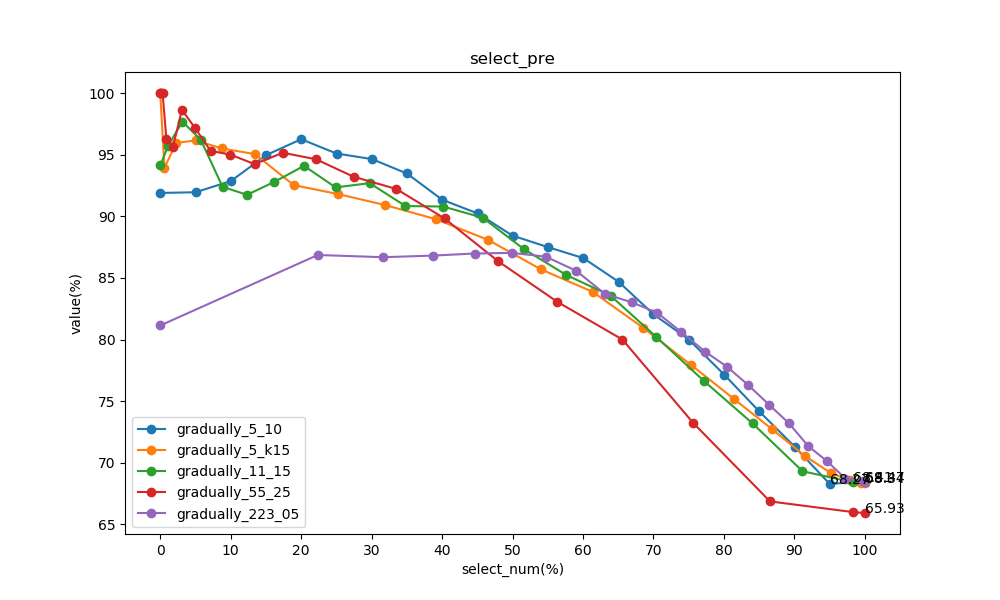
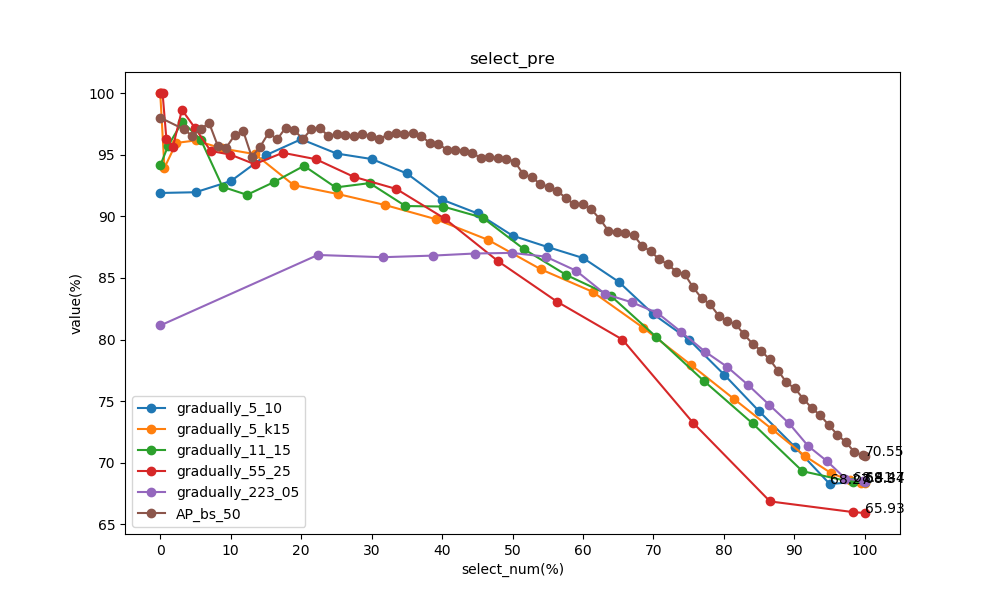
1002

diff --git a/data.py b/data.py
@@ -135,6 +135,21 @@ gradually_30_04={  #ef 30  q 0.4
     "select_num":[0, 449, 592, 696, 781, 854, 918, 977, 1030, 1080, 1126, 1170, 1212, 1251, 1289, 1325, 1359, 1393, 1425, 1456, 1486, 1494]
 }
 
+AP_bs_50={
+    "title": "AP_bs_50",
+    "length": 83,
+    "mAP":  [29.34, 30.83, 33.86, 31.19, 33.61, 34.77, 35.22, 35.37, 36.34, 36.52, 35.58, 37.93, 39.02, 38.45, 39.47, 39.77, 41.56, 42.22, 43.76, 42.78, 44.56, 44.1, 44.89, 45.7, 47.01, 47.6, 46.58, 49.19, 49.59, 47.94, 48.91, 50.16, 49.3, 49.59, 51.47, 52.04, 51.9, 53.95, 53.53, 51.85, 53.11, 52.4, 55.06, 54.46, 54.23, 54.9, 54.86, 56.99, 56.26, 56.47, 55.72, 55.62, 56.77, 57.37, 57.4, 57.86, 55.59, 57.89, 58.16, 57.61, 58.13, 58.5, 57.12, 58.95, 57.13, 60.5, 59.21, 59.34, 57.76, 58.18, 60.52, 58.33, 58.03, 59.06, 58.61, 59.07, 59.3, 58.6, 60.01, 58.93, 57.68, 58.48, 57.72],
+    "top1": [34.05, 35.9, 39.03, 35.9, 39.74, 40.88, 41.31, 40.46, 41.74, 42.45, 41.6, 44.44, 45.01, 43.73, 45.73, 46.58, 48.15, 48.72, 51.14, 50.0, 51.57, 51.0, 52.71, 53.85, 55.13, 55.98, 55.56, 57.69, 59.12, 55.7, 57.12, 59.12, 58.26, 57.98, 61.4, 61.54, 61.11, 63.82, 63.53, 62.11, 63.25, 61.82, 63.96, 64.25, 64.81, 64.39, 64.81, 66.81, 66.67, 66.1, 65.53, 65.95, 66.1, 67.52, 66.81, 67.95, 64.96, 68.09, 66.52, 66.81, 67.52, 67.38, 67.66, 67.66, 66.52, 70.09, 68.8, 69.37, 67.81, 67.52, 69.66, 67.81, 67.24, 68.23, 67.95, 69.66, 68.66, 68.09, 69.37, 67.81, 66.67, 66.95, 67.81],
+    "top5": [],
+    "top10": [],
+    "top20": [],
+    "label_pre": [40.43, 41.97, 45.05, 42.64, 45.11, 46.52, 46.12, 48.06, 47.79, 49.8, 47.46, 49.87, 50.07, 49.26, 50.6, 52.21, 52.48, 52.41, 53.82, 53.61, 55.76, 56.09, 55.35, 59.3, 57.43, 60.37, 57.7, 59.71, 60.11, 60.11, 60.84, 61.31, 61.11, 61.04, 62.32, 64.06, 63.59, 64.86, 63.72, 63.39, 63.92, 65.6, 66.53, 65.33, 65.66, 66.4, 65.33, 67.07, 67.94, 68.01, 66.8, 66.67, 68.41, 68.27, 67.47, 68.21, 68.07, 69.21, 69.21, 69.21, 69.75, 69.14, 68.61, 69.48, 69.48, 69.81, 70.08, 69.81, 69.75, 70.48, 70.55, 70.35, 70.28, 70.35, 70.21, 70.35, 70.55, 70.62, 70.55, 70.68, 70.75, 70.62, 70.55],
+    "select_pre":[98.0, 97.06, 96.51, 97.12, 97.54, 95.71, 95.57, 96.59, 96.91, 94.81, 95.65, 96.77, 96.24, 97.18, 97.02, 96.25, 97.04, 97.19, 96.52, 96.68, 96.59, 96.5, 96.64, 96.55, 96.27, 96.6, 96.72, 96.64, 96.75, 96.5, 95.93, 95.89, 95.37, 95.34, 95.32, 95.15, 94.7, 94.83, 94.69, 94.68, 94.42, 93.4, 93.18, 92.6, 92.4, 92.09, 91.46, 90.96, 91.03, 90.56, 89.79, 88.84, 88.74, 88.65, 88.45, 87.6, 87.15, 86.52, 86.11, 85.52, 85.31, 84.23, 83.36, 82.85, 81.95, 81.48, 81.26, 80.41, 79.67, 79.1, 78.4, 77.48, 76.52, 76.03, 75.18, 74.43, 73.84, 73.05, 72.28, 71.67, 70.87, 70.62, 70.55],
+    "train_pre": [100.0, 99.73, 99.61, 99.62, 99.63, 99.27, 99.17, 99.3, 99.32, 98.77, 98.91, 99.14, 98.95, 99.17, 99.09, 98.8, 99.02, 99.04, 98.77, 98.79, 98.72, 98.65, 98.67, 98.61, 98.46, 98.56, 98.59, 98.52, 98.55, 98.41, 98.12, 98.07, 97.79, 97.74, 97.7, 97.58, 97.32, 97.36, 97.25, 97.21, 97.11, 96.54, 96.38, 96.02, 95.87, 95.66, 95.26, 94.94, 94.93, 94.62, 94.12, 93.52, 93.47, 93.36, 93.2, 92.63, 92.31, 91.88, 91.56, 91.15, 90.96, 90.23, 89.62, 89.29, 88.65, 88.29, 88.09, 87.47, 86.93, 86.49, 85.96, 85.29, 84.63, 84.23, 83.59, 83.01, 82.54, 81.93, 81.34, 80.89, 80.27, 80.02, 79.96],
+    "select_percent": [0.0, 3.35, 4.55, 5.76, 6.96, 8.17, 9.37, 10.58, 11.78, 12.99, 14.19, 15.39, 16.6, 17.8, 19.01, 20.21, 21.42, 22.62, 23.83, 25.03, 26.24, 27.44, 28.65, 29.85, 31.06, 32.26, 33.47, 34.67, 35.88, 37.08, 38.29, 39.49, 40.7, 41.9, 43.11, 44.31, 45.52, 46.72, 47.93, 49.13, 50.33, 51.54, 52.74, 53.95, 55.15, 56.36, 57.56, 58.77, 59.97, 61.18, 62.38, 63.59, 64.79, 66.0, 67.2, 68.41, 69.61, 70.82, 72.02, 73.23, 74.43, 75.64, 76.84, 78.05, 79.25, 80.46, 81.66, 82.86, 84.07, 85.27, 86.48, 87.68, 88.89, 90.09, 91.3, 92.5, 93.71, 94.91, 96.12, 97.32, 98.53, 99.73, 100.0],
+    "select_num": [0, 50, 68, 86, 104, 122, 140, 158, 176, 194, 212, 230, 248, 266, 284, 302, 320, 338, 356, 374, 392, 410, 428, 446, 464, 482, 500, 518, 536, 554, 572, 590, 608, 626, 644, 662, 680, 698, 716, 734, 752, 770, 788, 806, 824, 842, 860, 878, 896, 914, 932, 950, 968, 986, 1004, 1022, 1040, 1058, 1076, 1094, 1112, 1130, 1148, 1166, 1184, 1202, 1220, 1238, 1256, 1274, 1292, 1310, 1328, 1346, 1364, 1382, 1400, 1418, 1436, 1454, 1472, 1490, 1494]
+}
+
 
 
 import  numpy as np
@@ -265,4 +280,4 @@ if __name__=="__main__":
     # percent_gradually_5_k15()
     # get_train_pre(gradually_223_05)
     # percent_gradually_30_04()
-    get_train_pre(gradually_30_04)
+    get_train_pre(AP_bs_50)

diff --git a/main.py b/main.py
@@ -84,6 +84,7 @@ def draw_lines_for_one_train(train_name):
     plt.show()
 
 
+
 def draw_gradually_compare(compare_list,compare_item):
     plt.figure(figsize=(12, 6))
     max_len = 0
@@ -107,7 +108,7 @@ def draw_gradually_compare(compare_list,compare_item):
     else: plt.legend(loc="lower right")
     plt.savefig("compares/equalstep-{}".format(compare_item))
     plt.show()
-    pass
+
     # draw_mAP
 
 
@@ -189,9 +190,9 @@ def draw_gradually_all_percent():
         draw_gradually_percent(items)
 
 def draw_gradually_all_percent2():
-    compare_items = ["mAP", "top1", "top5", "top10", "top20", "label_pre", "select_pre","train_pre"]
+    compare_items = ["mAP", "top1", "label_pre", "select_pre","train_pre"]
     compare_list1 = [gradually_5_10,gradually_5_13,gradually_5_15]
-    compare_list2 = [gradually_5_10,gradually_5_k15,gradually_11_15,gradually_55_25,gradually_223_05]
+    compare_list2 = [gradually_5_10,gradually_5_k15,gradually_11_15,gradually_55_25,gradually_223_05,AP_bs_50]
     for items  in compare_items:
         draw_gradually_percent2(compare_list2,items)
 
@@ -282,13 +283,50 @@ def init_outf(file_name):
     print(select_pres)
 
 
+def init_outf2(file_name):
+    f = codecs.open(file_name, 'r', 'utf-8')
+    datas = f.readlines()
+    steps = []
+    mPAs = []
+    top1s = []
+    nums_selected = []
+    select_percent = []
+    label_pres = []
+    select_pres = []
+    for line in datas:
+        line = line.strip()
+        line = line.split(" ")
+        for ll in line:
+            data = ll.split(":")
+            if(data[0]=="step"):
+                steps.append(int(data[1]))
+            if(data[0]=="top1"):
+                top1s.append(round(float(data[1][:-1]),2))
+            if(data[0]=="nums_selected"):
+                nums_selected.append(int(data[1]))
+            if(data[0]=="selected_percent"):
+                select_percent.append(round(float(data[1][:-1]),2))
+            if(data[0] =="mAP"):
+                mPAs.append(round(float(data[1][:-1]),2))
+            if(data[0]=="label_pre"):
+                label_pres.append(round(float(data[1][:-1]),2))
+            if(data[0] =="select_pre"):
+                select_pres.append(round(float(data[1][:-1]),2))
+
+    print("steps",steps)
+    print("mPAs", mPAs)
+    print("top1s", top1s)
+    print("label_pres",label_pres)
+    print("select_pres",select_pres)
+    print("nums_selected",nums_selected)
+    print("select_percent",select_percent)
 
 
 if __name__ =="__main__":
     # pass
-    draw_lines_for_all_train()
+    # draw_lines_for_all_train()
     # draw_gradually_compare_all()
-    # draw_gradually_all_percent2()
+    draw_gradually_all_percent2()
     # draw_gradually_compare_all()
     # draw_gradually_all_percent2
     # init_outf("requeir_data1.txt")
@@ -296,4 +334,5 @@ if __name__ =="__main__":
     # draw_gradually_compare_all()
     # draw_line()
     # select_pre_with_mAP_for_all()
+    # draw_lines_for_one_train(AP_bs_50)
 

diff --git a/test_dictionary.py b/test_dictionary.py
@@ -1,0 +1,18 @@
+#!/usr/bin/python
+# -*- coding: utf-8 -*-
+'''
+@AUTHOR:Joselyn Zhao
+@CONTACT:zhaojing17@foxmail.com
+@HOME_PAGE:joselynzhao.top
+@SOFTWERE:PyCharm
+@FILE:test_dictionary.py
+@TIME:2019/10/2 21:54
+@DES:
+'''
+
+
+id_num = {"00":1,"b":234,"aas":32}
+for item in id_num:
+    id_num[item] = id_num[item] +1
+
+print(id_num)
